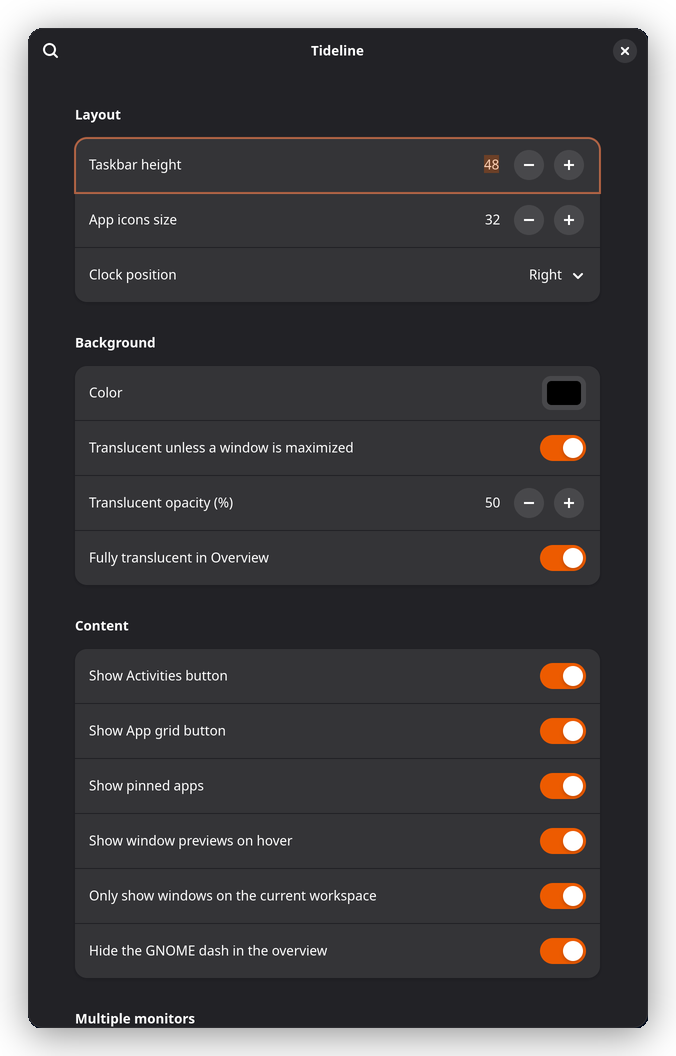
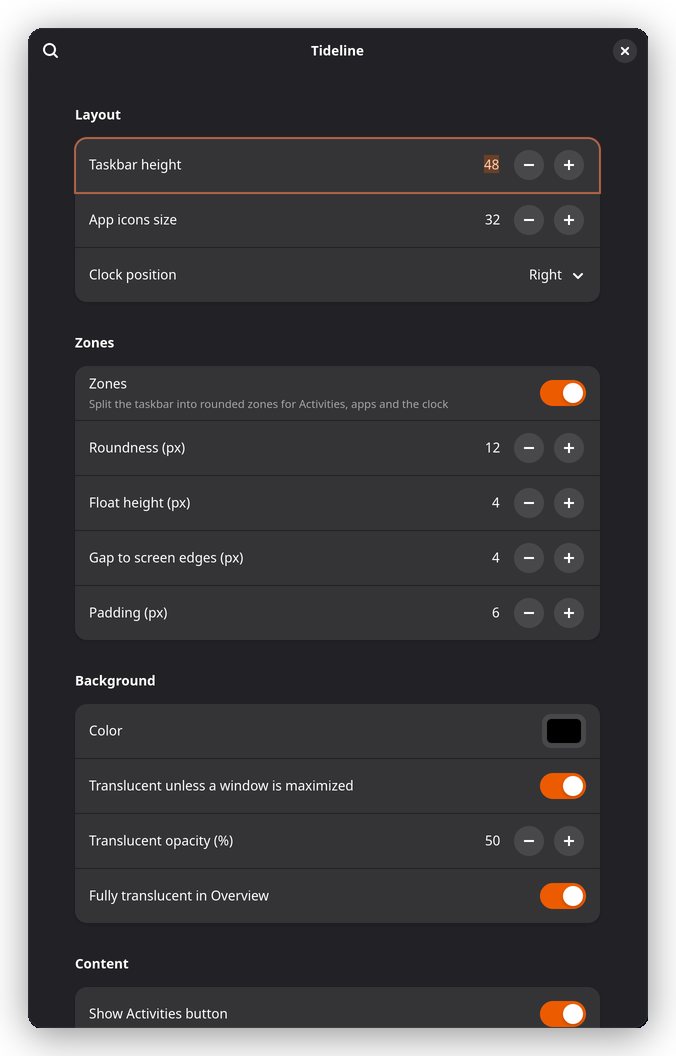
Show Zones in README and refresh preferences screenshot

diff --git a/README.md b/README.md
@@ -65,6 +65,17 @@ a window is maximized, so nothing looks half-finished. Pick any color you like.
 
 ![Translucent bar on top, solid bar with a maximized window below](docs/opacity.png)
 
+### One bar, or three zones
+
+Prefer something a little more modern? Turn on **Zones** and the bar splits
+into three rounded, slightly floating islands: Activities on the left, apps in
+the middle, clock on the right. Tweak the roundness, float height, gaps and
+padding to taste. Maximize a window and it quietly turns back into one solid
+bar, because nobody wants to see wallpaper peeking out under their
+spreadsheet.
+
+![The classic single bar on top, Zones below](docs/zones.png)
+
 ### Out of the way in the Overview
 
 Press the Super key and GNOME's Overview still works the GNOME way. Tideline
